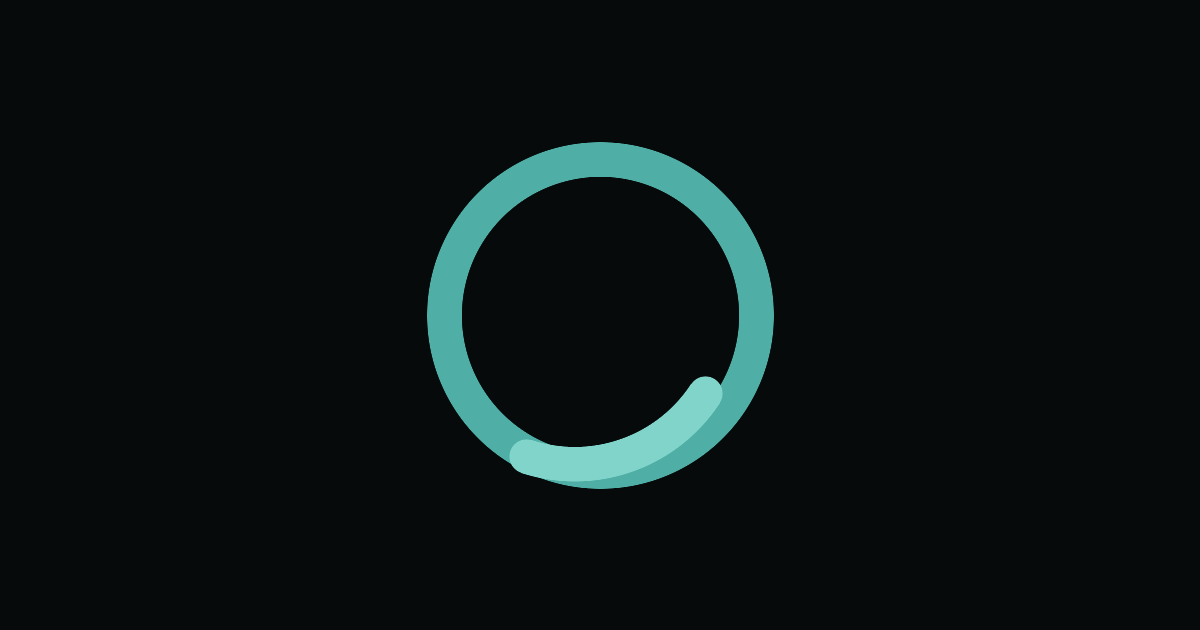
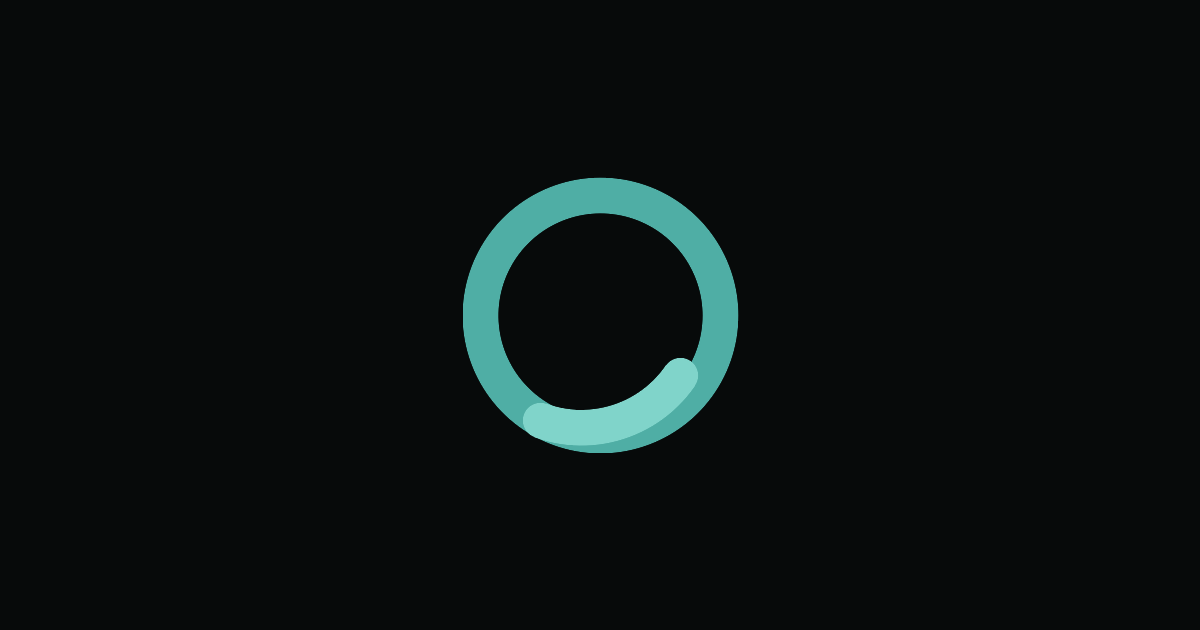
refactor: make the brand mark canonical

Changed region(s): [[0.3392, 0.2111, 0.6475, 0.7841]]

diff --git a/src/index.html b/src/index.html
@@ -29,7 +29,7 @@
     />
     <meta name="twitter:image" content="https://jeprary.github.io/spacetakeGS-web/share-card-v2.png" />
     <meta name="twitter:image:alt" content="SpaceTake GS circular brand mark" />
-    <link rel="icon" href="./favicon.svg" type="image/svg+xml" />
+    <link rel="icon" href="./brand-mark.svg" type="image/svg+xml" />
     <link rel="apple-touch-icon" href="./apple-touch-icon.png" sizes="180x180" />
     <link rel="canonical" href="https://jeprary.github.io/spacetakeGS-web/" />
     <link rel="manifest" href="./site.webmanifest" />
@@ -47,7 +47,7 @@
 
     <header class="site-header" data-header>
       <a class="brand" href="#top" aria-label="SpaceTake GS home">
-        <span class="brand-mark" aria-hidden="true"></span>
+        <img class="brand-mark" src="./brand-mark.svg" alt="" width="18" height="18" />
         <span>SpaceTake <b>GS</b></span>
       </a>
     </header>

diff --git a/src/styles.css b/src/styles.css
@@ -31,7 +31,7 @@ a { color: inherit; text-decoration: none; }
 .site-header[data-scrolled] { background: rgba(7,10,10,.88); border-color: var(--line); backdrop-filter: blur(18px); }
 .brand { display: inline-flex; align-items: center; gap: 10px; font-size: 1rem; letter-spacing: -.02em; }
 .brand b { color: var(--accent-bright); font-weight: 650; }
-.brand-mark { display:block; flex:0 0 auto; width:18px; height:18px; border:2px solid var(--accent); border-radius:50%; background:transparent; box-shadow:inset -4px -3px rgba(79,174,165,.2); }
+.brand-mark { display:block; flex:0 0 auto; width:18px; height:18px; max-width:none; }
 
 .eyebrow { display: flex; align-items: center; gap: .65rem; margin: 0 0 1.35rem; color: var(--accent-bright); font-size: .7rem; font-weight: 650; letter-spacing: .16em; text-transform: uppercase; }
 .eyebrow > span { width: 24px; height: 1px; background: var(--accent); }

diff --git a/ASSETS.md b/ASSETS.md
@@ -1,12 +1,12 @@
 # Website asset record
 
-Status: prototype asset inventory; publication remains unauthorized.
+Status: published website asset inventory.
 
 | Path | Classification | Source | Public boundary |
 | --- | --- | --- | --- |
-| `public/favicon.svg` | WEBSITE brand icon, SVG | Reproduces the circular teal brand mark already used by the SpaceTake GS desktop UI and website header | First-party geometric artwork; contains no third-party logo, capture, person, private evidence or machine path |
-| `public/apple-touch-icon.png` | WEBSITE touch icon, 180×180 PNG | Rasterized from `artwork/apple-touch-icon.svg`, using the same circular teal brand mark | First-party geometric artwork; contains no third-party logo, capture, person, private evidence or machine path |
-| `public/share-card-v2.png` | WEBSITE social preview, 1200×630 PNG | Rasterized from `artwork/share-card-v2.svg`, using the same circular teal brand mark on the website background color | Replaces the superseded orbital social artwork; contains no capture, person, private evidence, machine path or qualification claim |
+| `public/brand-mark.svg` | CANONICAL WEBSITE brand mark, SVG | Formalizes the circular teal mark previously expressed only as desktop UI CSS; the website header, favicon and manifest reference this exact file | Single editable source for the website brand geometry; contains no third-party logo, capture, person, private evidence or machine path |
+| `public/apple-touch-icon.png` | GENERATED WEBSITE touch icon, 180×180 PNG | Generated from `public/brand-mark.svg` by `scripts/generate-brand-assets.mjs` | Raster derivative only; the mark is not redrawn in this file |
+| `public/share-card-v2.png` | GENERATED WEBSITE social preview, 1200×630 PNG | Generated from `public/brand-mark.svg` by `scripts/generate-brand-assets.mjs` | Replaces the superseded orbital social artwork; the mark is not redrawn in this file |
[2 lines of base64/hex data omitted]
 | `public/GAUSSIAN-ASSET-NOTICE.txt` | Asset rights notice | Website-owned public-use boundary for the embedded SOG | Keeps the website source notice separate from the reconstruction asset rights. |

diff --git a/README.md b/README.md
@@ -23,8 +23,9 @@ the workflow must be explicitly dispatched after the reviewed source commit is
 present on `main`.
 
 The canonical and social-preview metadata use the published project-site URL.
-The favicon, Apple touch icon and social card all use the same circular teal
-brand mark as the desktop UI and website header.
+`public/brand-mark.svg` is the single editable website Logo source: the header,
+favicon and manifest reference it directly, while the Apple touch icon and
+social card are generated from it by `npm run brand:generate`.
 
 `PUBLIC-SOURCE-ALLOWLIST.txt` is the fail-closed candidate for a future clean
 standalone repository. Local checkpoint/provenance records, `node_modules/`,
